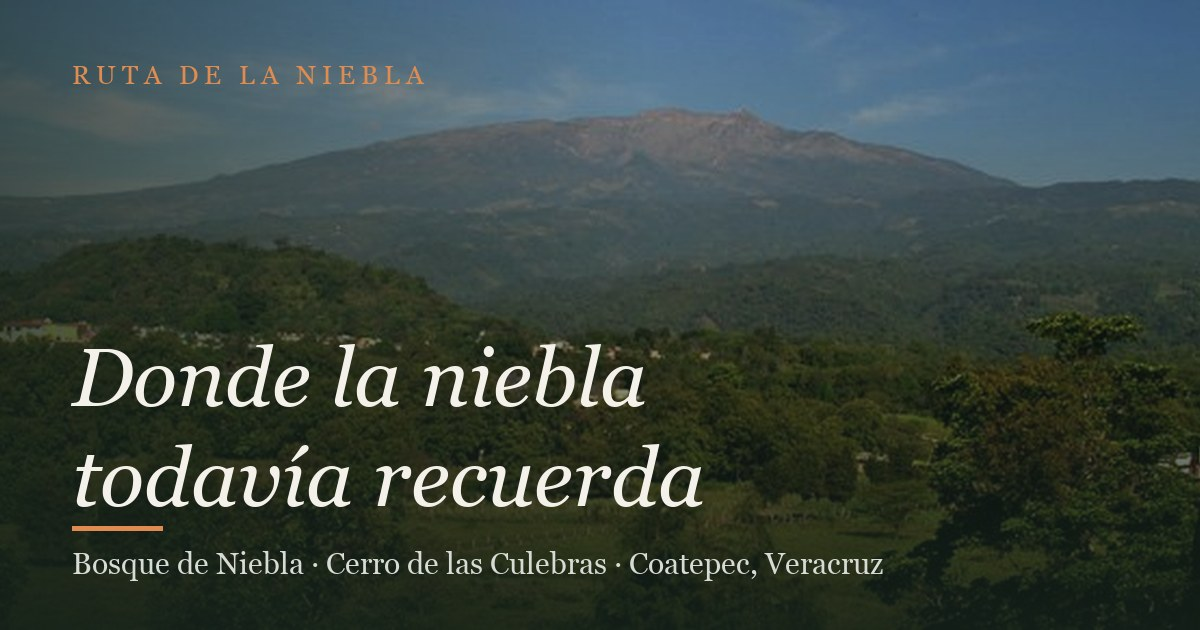
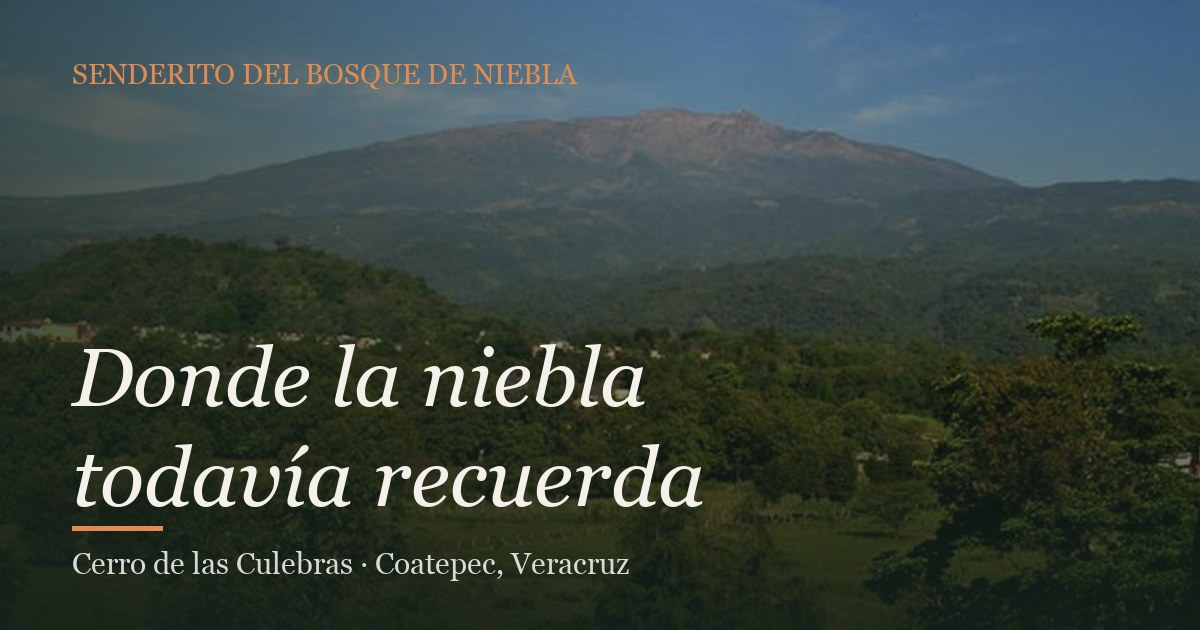
feat(rebrand): el sitio ahora es «Senderito del Bosque de Niebla»
Nombre oficial del proyecto (SEDEMA, IG @user), distinto de
Ruta de la Niebla A.C. (la organización) y de la ruta turística regional.
- Nav, título, metadata, OG (imagen regenerada), sitemap/robots, footer
- Dominio canónico → senderitodebosquedeniebla.org
- Ruta de la Niebla A.C. queda como la organización detrás

Changed region(s): [[0.0617, 0.8746, 0.74, 0.9349], [0.0617, 0.0905, 0.4933, 0.1508]]

diff --git a/app/layout.tsx b/app/layout.tsx
@@ -17,43 +17,44 @@ const inter = Inter({
   display: "swap",
 });
 
-const SITE = "https://rutadelaniebla.org";
+const SITE = "https://senderitodebosquedeniebla.org";
 
 export const metadata: Metadata = {
   metadataBase: new URL(SITE),
   title: {
-    default: "Ruta de la Niebla — Bosque de Niebla y Cerro de las Culebras",
-    template: "%s — Ruta de la Niebla",
+    default: "Senderito del Bosque de Niebla — Cerro de las Culebras, Coatepec",
+    template: "%s — Senderito del Bosque de Niebla",
   },
   description:
-    "Donde la niebla todavía recuerda. Iniciativa ciudadana de conservación del bosque de niebla de Coatepec y el Cerro de las Culebras: senderismo interpretativo, biblioteca digital y memoria comunitaria.",
-  applicationName: "Ruta de la Niebla",
+    "Donde la niebla todavía recuerda. Parque temático y sendero interpretativo del bosque de niebla en el ANP Cerro de las Culebras, Coatepec, Veracruz. Un proyecto de Ruta de la Niebla A.C.",
+  applicationName: "Senderito del Bosque de Niebla",
   authors: [{ name: "Ruta de la Niebla A.C." }],
   keywords: [
+    "Senderito del Bosque de Niebla",
     "bosque de niebla",
     "Cerro de las Culebras",
     "Coatepec",
     "Veracruz",
     "bosque mesófilo de montaña",
     "conservación",
-    "senderismo",
-    "Ruta de la Niebla",
+    "senderismo interpretativo",
+    "Ruta de la Niebla A.C.",
   ],
   openGraph: {
     type: "website",
-    siteName: "Ruta de la Niebla",
+    siteName: "Senderito del Bosque de Niebla",
     locale: "es_MX",
     url: SITE,
-    title: "Ruta de la Niebla — Bosque de Niebla y Cerro de las Culebras",
+    title: "Senderito del Bosque de Niebla — Cerro de las Culebras, Coatepec",
     description:
-      "Donde la niebla todavía recuerda. Conservación del bosque de niebla de Coatepec y el Cerro de las Culebras.",
-    images: [{ url: "/og.jpg", width: 1200, height: 630, alt: "Ruta de la Niebla — Cerro de las Culebras" }],
+      "Donde la niebla todavía recuerda. Parque temático y sendero interpretativo del bosque de niebla en el Cerro de las Culebras, Coatepec.",
+    images: [{ url: "/og.jpg", width: 1200, height: 630, alt: "Senderito del Bosque de Niebla — Cerro de las Culebras" }],
   },
   twitter: {
     card: "summary_large_image",
-    title: "Ruta de la Niebla — Bosque de Niebla y Cerro de las Culebras",
+    title: "Senderito del Bosque de Niebla — Cerro de las Culebras, Coatepec",
     description:
-      "Donde la niebla todavía recuerda. Conservación del bosque de niebla de Coatepec.",
+      "Donde la niebla todavía recuerda. Sendero interpretativo del bosque de niebla en Coatepec.",
     images: ["/og.jpg"],
   },
 };

diff --git a/app/globals.css b/app/globals.css
@@ -72,15 +72,16 @@
 .nb-brand {
   display: flex;
   align-items: center;
-  gap: 0.6rem;
+  gap: 0.55rem;
   font-family: var(--serif);
-  font-size: 1.25rem;
+  font-size: 1.1rem;
   font-weight: 600;
   color: var(--bosque);
   white-space: nowrap;
+  line-height: 1.05;
 }
-.nb-brand-logo { height: 36px; width: auto; display: block; }
-.nb-brand-text { display: flex; flex-direction: column; line-height: 1.05; }
+.nb-brand-logo { height: 34px; width: auto; display: block; }
+.nb-brand-text { display: flex; flex-direction: column; }
 .nb-brand small {
   display: block;
   font-family: var(--sans);

diff --git a/components/NieblaNav.tsx b/components/NieblaNav.tsx
@@ -21,8 +21,8 @@ export default function NieblaNav() {
         {/* eslint-disable-next-line @next/next/no-img-element */}
         <img src="/logo-serpiente.png" alt="" className="nb-brand-logo" />
         <span className="nb-brand-text">
-          Ruta de la Niebla
-          <small>Coatepec · Veracruz</small>
+          Senderito del Bosque de Niebla
+          <small>Cerro de las Culebras · Coatepec</small>
         </span>
       </Link>
 

diff --git a/app/biblioteca/page.tsx b/app/biblioteca/page.tsx
@@ -7,7 +7,7 @@ export const metadata: Metadata = {
     "Documentos, guías e investigación sobre el bosque de niebla del Cerro de las Culebras, Coatepec. Conocimiento abierto y descargable.",
   alternates: { canonical: "/biblioteca" },
   openGraph: {
-    title: "Biblioteca Digital — Ruta de la Niebla",
+    title: "Biblioteca Digital — Senderito del Bosque de Niebla",
     description: "Investigación y guías sobre el bosque de niebla de Coatepec.",
     url: "/biblioteca",
     images: ["/og.jpg"],

diff --git a/app/cerro-de-las-culebras/page.tsx b/app/cerro-de-las-culebras/page.tsx
@@ -11,7 +11,7 @@ export const metadata: Metadata = {
     "Reserva ecológica de Coatepec a unos 1,325 m: bosque de niebla, más de cien especies de aves y la defensa ciudadana de uno de los ecosistemas más amenazados de México.",
   alternates: { canonical: "/cerro-de-las-culebras" },
   openGraph: {
-    title: "Cerro de las Culebras — Ruta de la Niebla",
+    title: "Cerro de las Culebras — Senderito del Bosque de Niebla",
     description: "Bosque de niebla, biodiversidad y la defensa de la reserva de Coatepec.",
     url: "/cerro-de-las-culebras",
     images: ["/og.jpg"],

diff --git a/app/galeria/page.tsx b/app/galeria/page.tsx
@@ -7,7 +7,7 @@ export const metadata: Metadata = {
     "Fotografías del Cerro de las Culebras: bosque de niebla, fauna, flora, senderos, comunidad y conservación.",
   alternates: { canonical: "/galeria" },
   openGraph: {
-    title: "Galería — Ruta de la Niebla",
+    title: "Galería — Senderito del Bosque de Niebla",
     description: "El Cerro de las Culebras en imágenes.",
     url: "/galeria",
     images: ["/og.jpg"],

diff --git a/app/participa/page.tsx b/app/participa/page.tsx
@@ -7,7 +7,7 @@ export const metadata: Metadata = {
     "Súmate a la conservación del bosque de niebla de Coatepec: voluntariado, visitas guiadas y donativos para el Cerro de las Culebras.",
   alternates: { canonical: "/participa" },
   openGraph: {
-    title: "Participa — Ruta de la Niebla",
+    title: "Participa — Senderito del Bosque de Niebla",
     description: "Voluntariado, visitas guiadas y donativos para el Cerro de las Culebras.",
     url: "/participa",
     images: ["/og.jpg"],

diff --git a/app/robots.ts b/app/robots.ts
@@ -5,6 +5,6 @@ export const dynamic = "force-static";
 export default function robots(): MetadataRoute.Robots {
   return {
     rules: { userAgent: "*", allow: "/" },
-    sitemap: "https://rutadelaniebla.org/sitemap.xml",
+    sitemap: "https://senderitodebosquedeniebla.org/sitemap.xml",
   };
 }

diff --git a/app/sitemap.ts b/app/sitemap.ts
@@ -1,6 +1,6 @@
 import type { MetadataRoute } from "next";
 
-const SITE = "https://rutadelaniebla.org";
+const SITE = "https://senderitodebosquedeniebla.org";
 
 export const dynamic = "force-static";
 

diff --git a/components/NieblaFooter.tsx b/components/NieblaFooter.tsx
@@ -32,7 +32,7 @@ export default function NieblaFooter() {
         </div>
       </div>
       <div className="nb-footer-bottom">
-        <span>© 2026 Ruta de la Niebla A.C. · ANP Cerro de las Culebras, Coatepec</span>
+        <span>© 2026 Senderito del Bosque de Niebla · un proyecto de Ruta de la Niebla A.C.</span>
         <span>El bosque necesita testigos.</span>
       </div>
     </footer>

diff --git a/lib/data.ts b/lib/data.ts
@@ -1,4 +1,4 @@
-/* Datos de Ruta de la Niebla. Verificados en la presentación del colectivo
+/* Datos del Senderito del Bosque de Niebla. Verificados en la presentación del colectivo
    (public/pdf/presentacion-senderito-bosque-niebla.pdf) y su Facebook. */
 
 export type Stat = { value: number; label: string; suffix?: string };